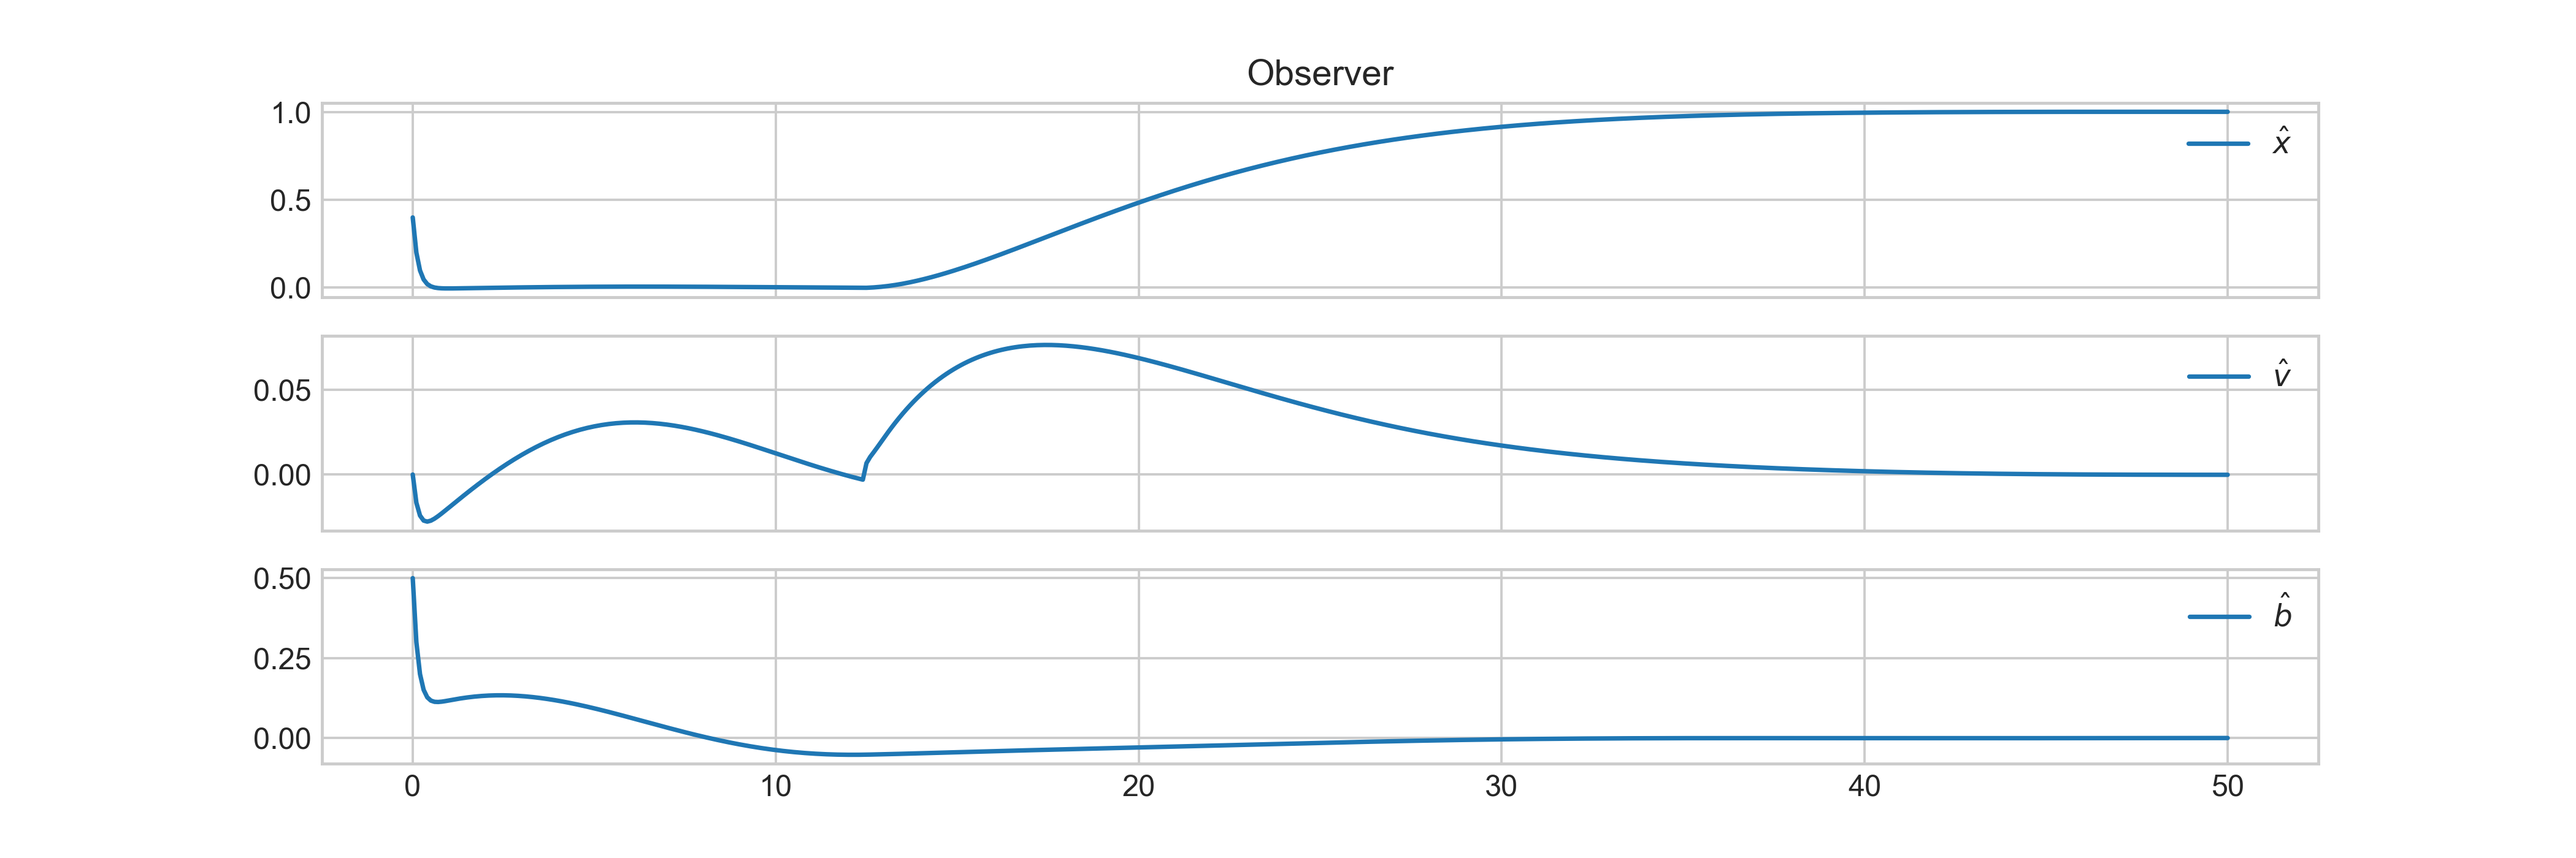
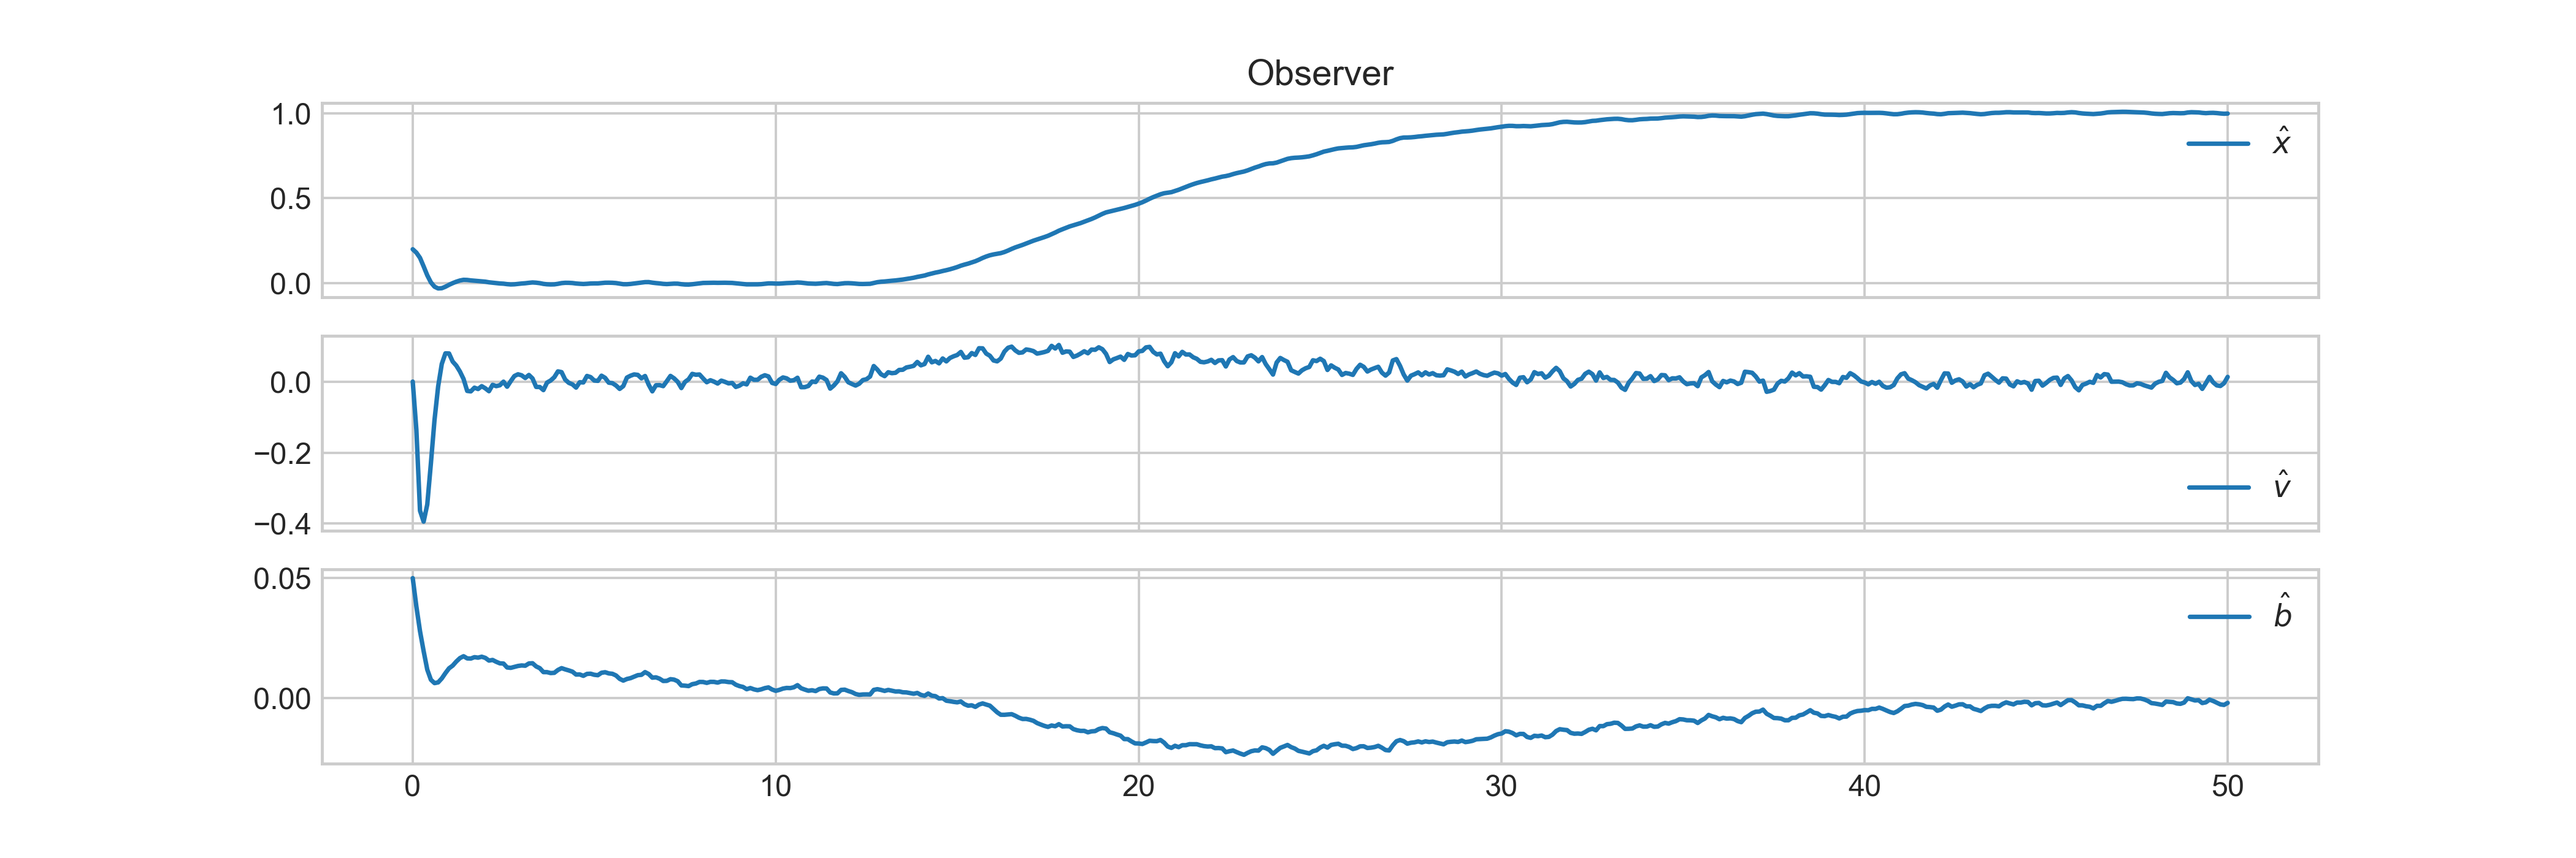
Added simple nonlinear observer

diff --git a/simulation.py b/simulation.py
@@ -11,29 +11,39 @@ plt.rcParams.update({
     'figure.figsize': (12, 4)
 })
 
-m = 10
+m = .50
 g = 9.81
 d = 1.4
 
+# Disturbance parameters
+mean = 0
+std = 0.01
+
 
 def dxdt(x, u):
+    # Add some disturbance
+
     return np.array([x[1], -d/m*x[1] + u/m])
 
 
-k1 = 8
-k2 = 5
+k1 = 2
+k2 = 1
 
 x = np.zeros((2, len(t)))
 x_hat = np.zeros((3, len(t)))
 
 x[:, 0] = np.array([0.0, 0.])
-x_hat[:, 0] = np.array([0.4, 0, .5])
+x_hat[:, 0] = np.array([0.2, 0, .05])
 
-tau = 0
+tau = np.zeros(len(t))
+
 for i in range(1, len(t)):
-    x[:, i] = x[:, i-1] + dt*dxdt(x[:, i-1], tau)
-    tau = controller(x[0, i], x[1, i], r[i], v[i], a[i], k1, k2, d, m)
-    x_hat[:, i] = x_hat[:, i-1] + dt*observer(x_hat[:, i-1], x[0, i], tau)
+    w = np.random.normal(mean, std, size=(2, 1))
+    x[:, i] = x[:, i-1] + dt*dxdt(x[:, i-1], tau[i-1])
+    x_hat[:, i] = x_hat[:, i-1] + dt * \
+        observer(x_hat[:, i-1], x[0, i] + w[0, 0], tau[i-1])
+    tau[i] = controller(x_hat[0, i], x_hat[1, i],
+                        r[i], v[i], a[i], k1, k2, d, m)
 
 
 fig, ax = plt.subplots(2, 1, sharex=True)
@@ -66,6 +76,11 @@ ax[1].legend()
 ax[2].plot(t, x_hat[2, :], label=r"$\hat{b}$")
 ax[2].legend()
 plt.savefig(os.path.join(dir, 'ObserverResults.png'), dpi=350)
+plt.show()
+
+
+plt.plot(t, tau, label=r"$\tau$")
+plt.legend()
 plt.show()
 
 # %%

diff --git a/referenceModel.py b/referenceModel.py
@@ -54,6 +54,7 @@ if __name__ == "__main__":
     fig, ax = plt.subplots(3, 1, sharex=True)
     ax[0].set_title("Reference Model", fontsize=20)
     ax[0].plot(t, r, label="$r(t)$")
+    ax[0].plot(t, u_c, 'r--', label=r"$p_{ref}$")
     ax[0].set_ylabel("$Position \; [m]$")
     ax[0].legend()
     ax[1].plot(t, v, 'g-', label=r"$\dot{r}(t)$")

diff --git a/observer.py b/observer.py
@@ -1,13 +1,13 @@
 import numpy as np
 
 # Set the observer parameters
-m_obs = 9       # 1 kg difference from simulation model
+m_obs = .4       # 1 kg difference from simulation model
 d_obs = 1       # .4 difference from simulation model
 
 # Observer gains
-L1 = 5
-L2 = 5
-L3 = 5
+L1 = 1
+L2 = 3
+L3 = .6
 
 
 def observer(x, y, tau):
